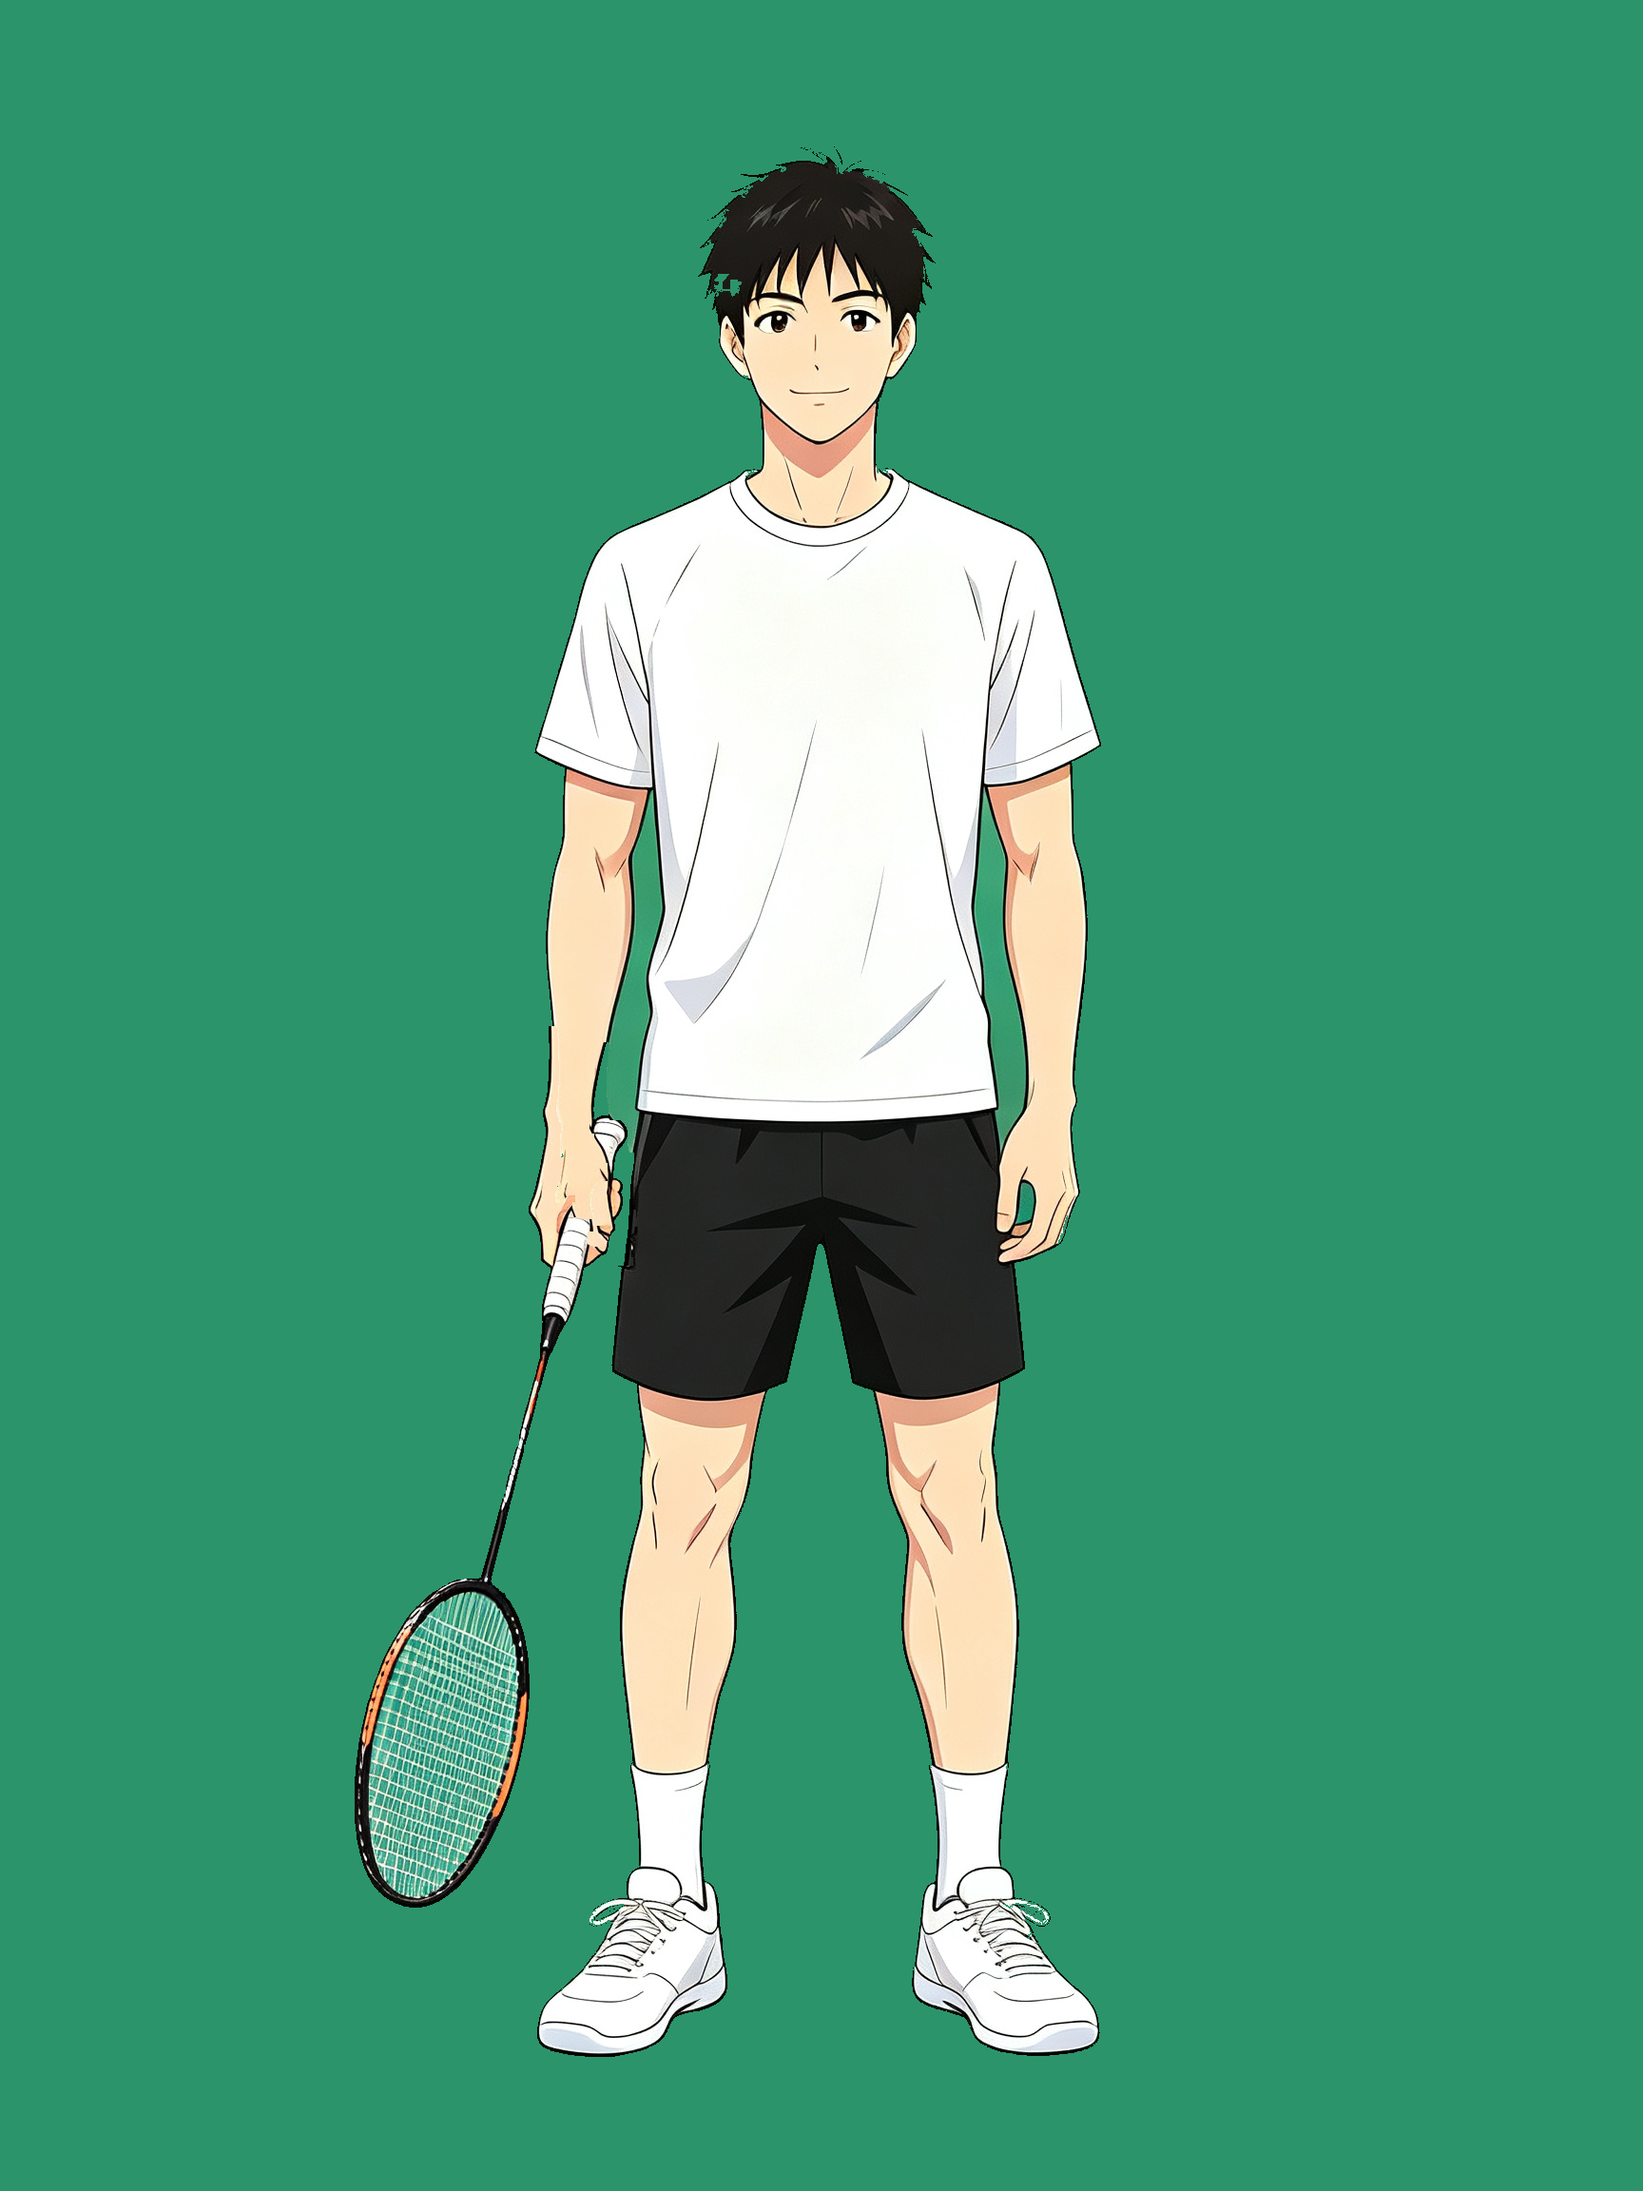
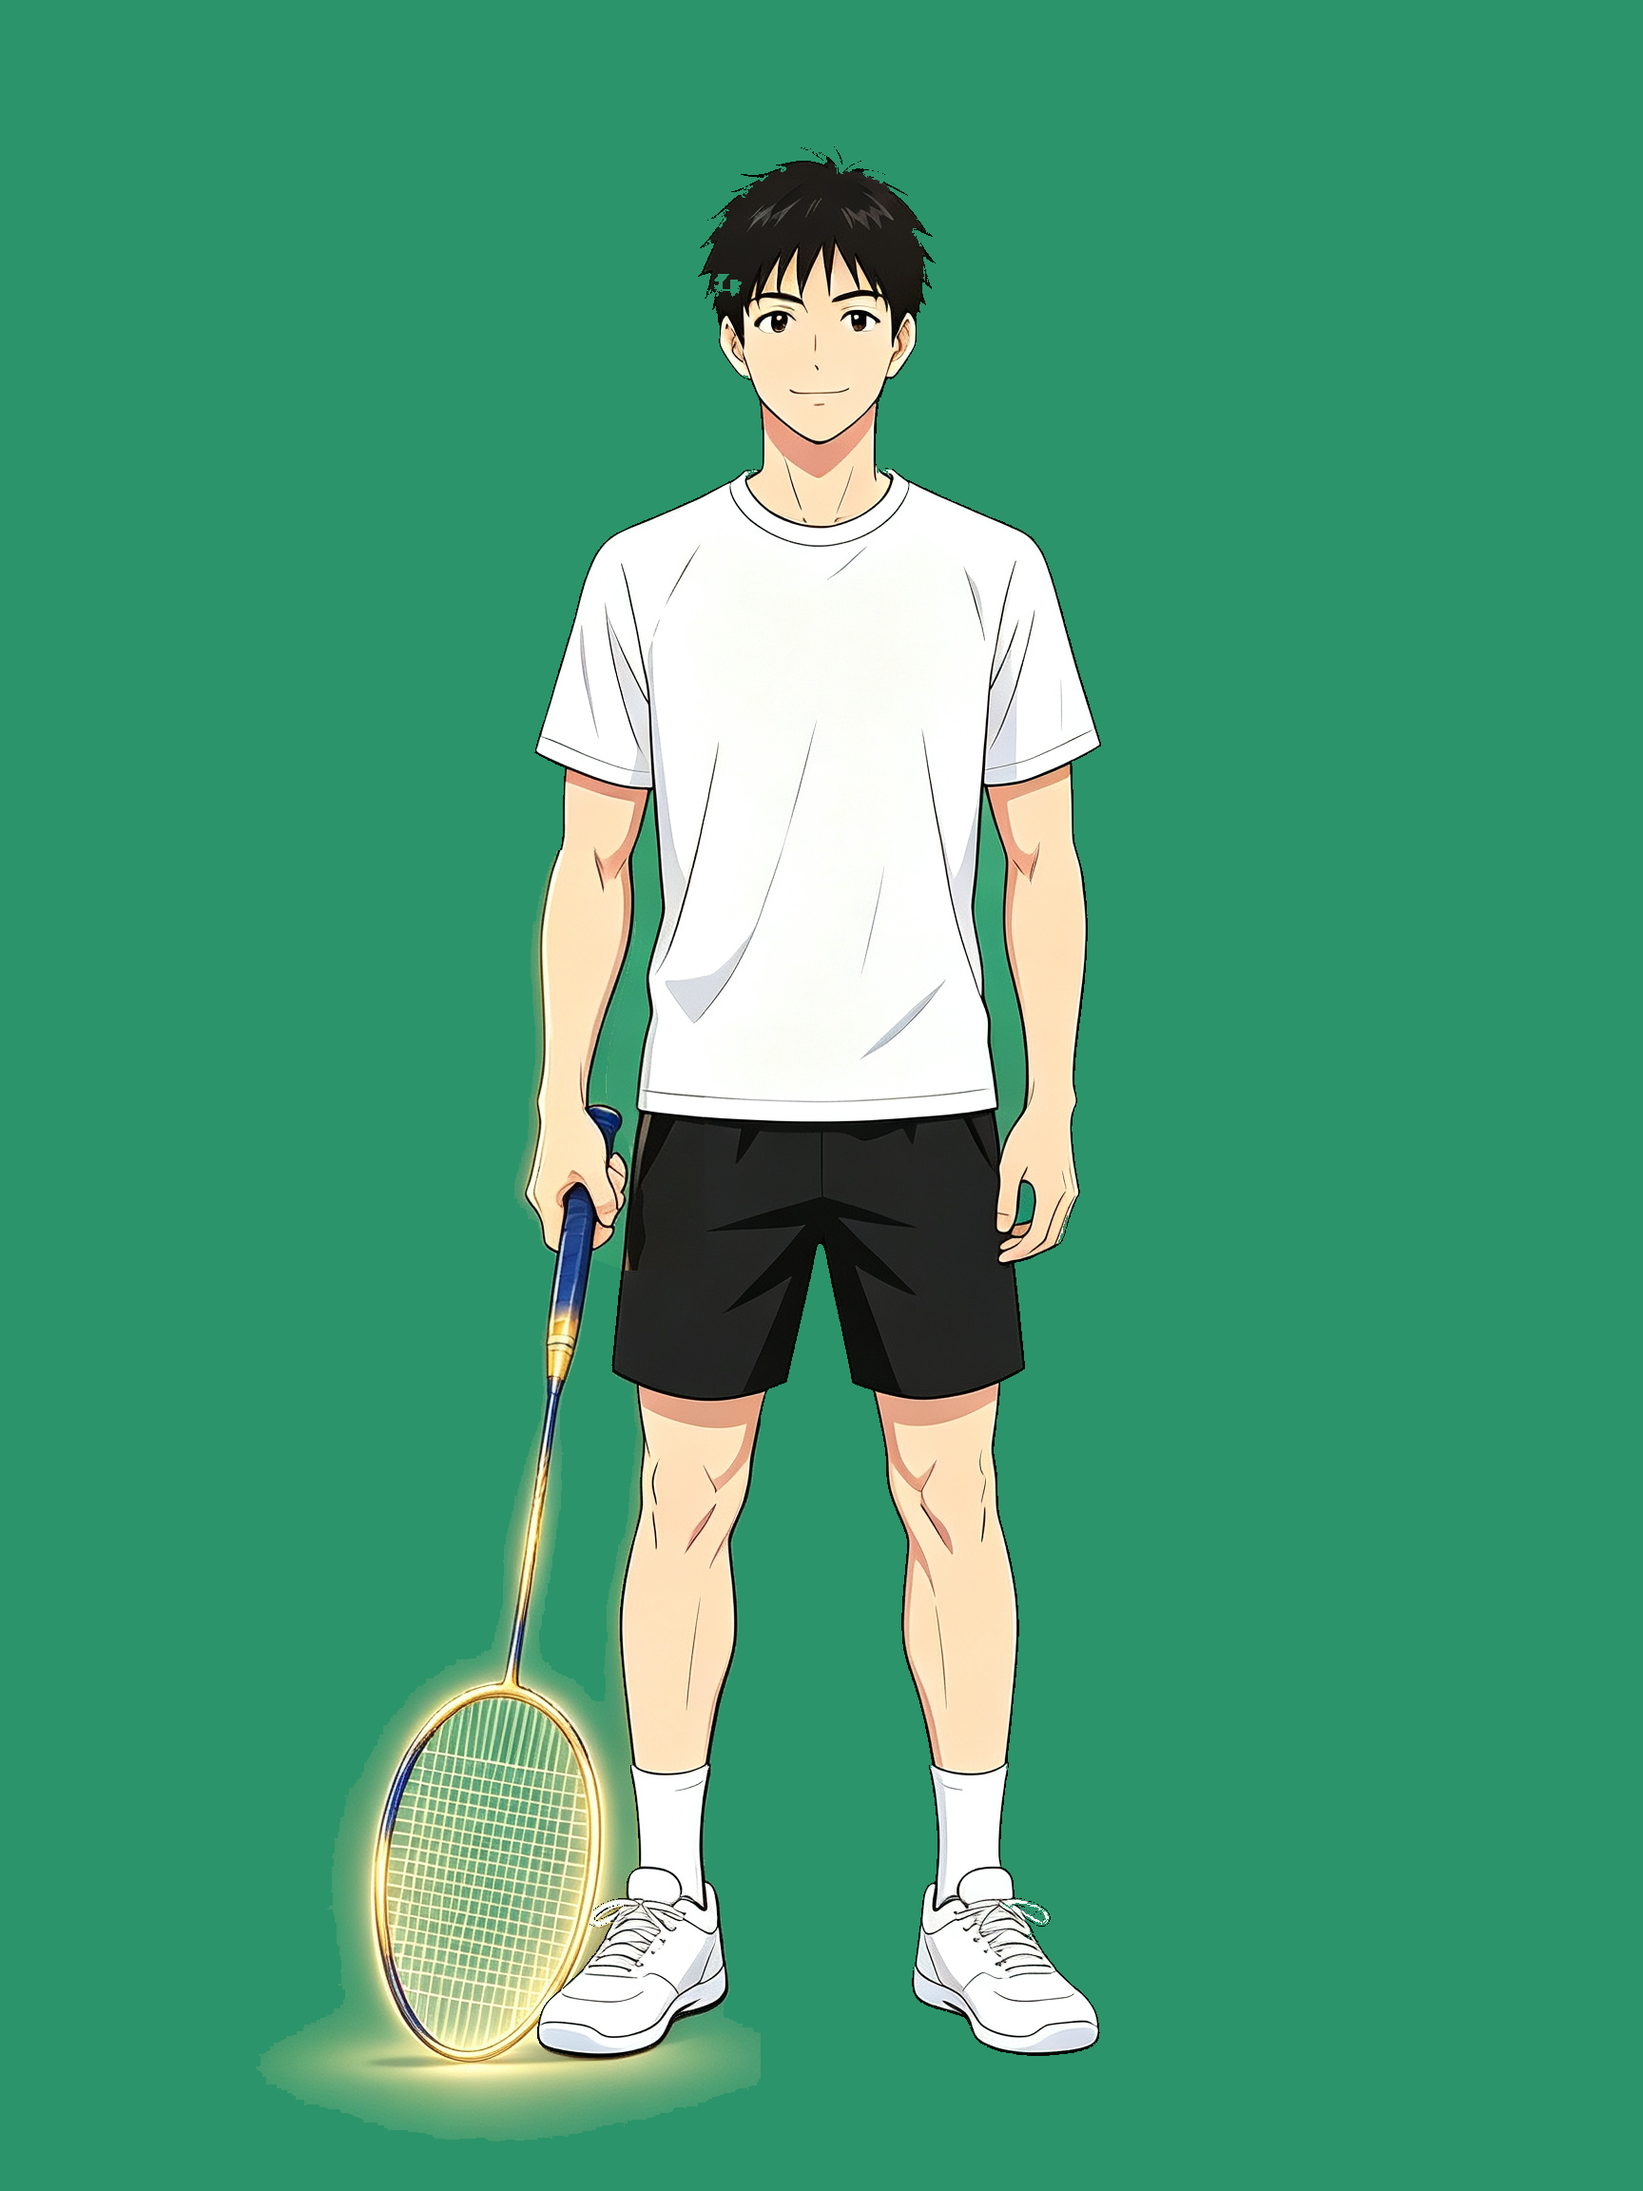
男版传说球拍换成发光金拍
原来那支拍平均色是 [124,131,122]，灰绿、发暗 —— 摆在一排里
比中段的几支还不起眼，看不出是传说。新的平均色 [195,190,151]，
金色带辉光，和 07 的青、09 的紫站在一起才像同一档。

新图是整张重画的，不是在底图上局部改：拿它直接和底图相减，
差异铺满全身（头 4473 px、鞋 81183 px），抽出来的图层会带着
一圈人物轮廓的鬼影。所以只把「画在绿幕上的那块拍身+辉光」和
左小臂搬过来，其余照抄底图。接缝挑在 y=894 —— 两张图的手臂
轮廓在那一行只差 1 px，往下才开始分岔（手握拍，胳膊画粗了）。
量过：改动一点没碰到腿和鞋。

顺带修一个取景的毛病。取景框本来按「区域框」算，而发光装备的
区域框比它真画出来的东西宽几十像素 —— 辉光糊在绿幕上，抠像
判成背景抠掉了，区域却还算它在内。这支拍的图层左边就有 43 列
全透明。照旧算法，全身像会为了这一圈看不见的边整体缩小 5%。
改成按图层 alpha 的实际范围算，男版取景框 504→499（几乎没动），
女版一个字节都没变。

Claude-Session: https://claude.ai/code/session_01VgrviCwxxvUSRpqqrPx3TF

Changed region(s): [[0.1562, 0.4062, 0.4688, 1.0], [0.375, 0.6562, 0.4062, 0.7188]]

diff --git a/design/extract-dressup.py b/design/extract-dressup.py
@@ -177,6 +177,7 @@ def main(src_dir: str, out_dir: str) -> None:
     W, H = canvas.size
 
     items = {}
+    visible = {}
     for path in sorted(src.glob('*.png')):
         item_id = path.stem
         if item_id == 'base':
@@ -222,9 +223,22 @@ def main(src_dir: str, out_dir: str) -> None:
             'w': layer.width,
             'h': layer.height,
         }
+
+        # 取景要按「真看得见的那一块」，不能按上面这个框。
+        # 两者能差很远：发光的装备，辉光糊在绿幕上被抠像判成背景，
+        # 于是区域框比图层实际画出来的东西宽出几十像素的空白。
+        # 拿区域框去取景，全身像就为了一圈透明的边而整体缩小。
+        vys, vxs = np.where(alpha > 8)
+        if len(vxs):
+            visible[item_id] = {
+                'x': int((x0 + int(vxs.min())) * SCALE),
+                'y': int((y0 + int(vys.min())) * SCALE),
+                'w': int((int(vxs.max()) - int(vxs.min()) + 1) * SCALE),
+                'h': int((int(vys.max()) - int(vys.min()) + 1) * SCALE),
+            }
         print(f'{item_id:12s} {items[item_id]}  实心占比 {alpha.mean() / 255:.0%}')
 
-    body, head = framing(base_a, items, W, H)
+    body, head = framing(base_a, visible, W, H)
     (out / 'meta.json').write_text(
         json.dumps(
             {'size': [W, H], 'items': items, 'body': body, 'head': head},
@@ -237,12 +251,16 @@ def main(src_dir: str, out_dir: str) -> None:
     print(f'头肩取景 {head}')
 
 
-def framing(base_alpha: np.ndarray, items: dict, W: int, H: int):
+def framing(base_alpha: np.ndarray, visible: dict, W: int, H: int):
     """算两个取景框，写进 meta 里，省得每换一套素材就回去改代码里的常量。
 
     画布两边留了大片空白（画的时候要给球拍留地方），
     按整张画布缩放的话人小得看不清脸 —— 所以全身要框到人身上，
     头像还要再往里框到头肩，不然缩进小圆圈里认不出是谁。
+
+    传进来的是每件装备「真画出来的那一块」，不是它的区域框。
+    区域框会比实际画面大一圈：发光装备的辉光糊在绿幕上，抠像判成背景
+    抠掉了，区域却还算它在内。按区域取景，就为了一圈透明的边把人缩小。
     """
     ys, xs = np.where(base_alpha > 128)
     px0, px1 = int(xs.min() * SCALE), int(xs.max() * SCALE)
@@ -251,7 +269,7 @@ def framing(base_alpha: np.ndarray, items: dict, W: int, H: int):
     # 全身：人 + 所有装备图层的并集。装备会伸到人形之外 ——
     # 球拍往左挥、发光的鞋往下探，只框人形会把它们切掉
     x0, y0, x1, y1 = px0, py0, px1, py1
-    for b in items.values():
+    for b in visible.values():
         x0, y0 = min(x0, b['x']), min(y0, b['y'])
         x1, y1 = max(x1, b['x'] + b['w']), max(y1, b['y'] + b['h'])
     pad = round(H * 0.02)
